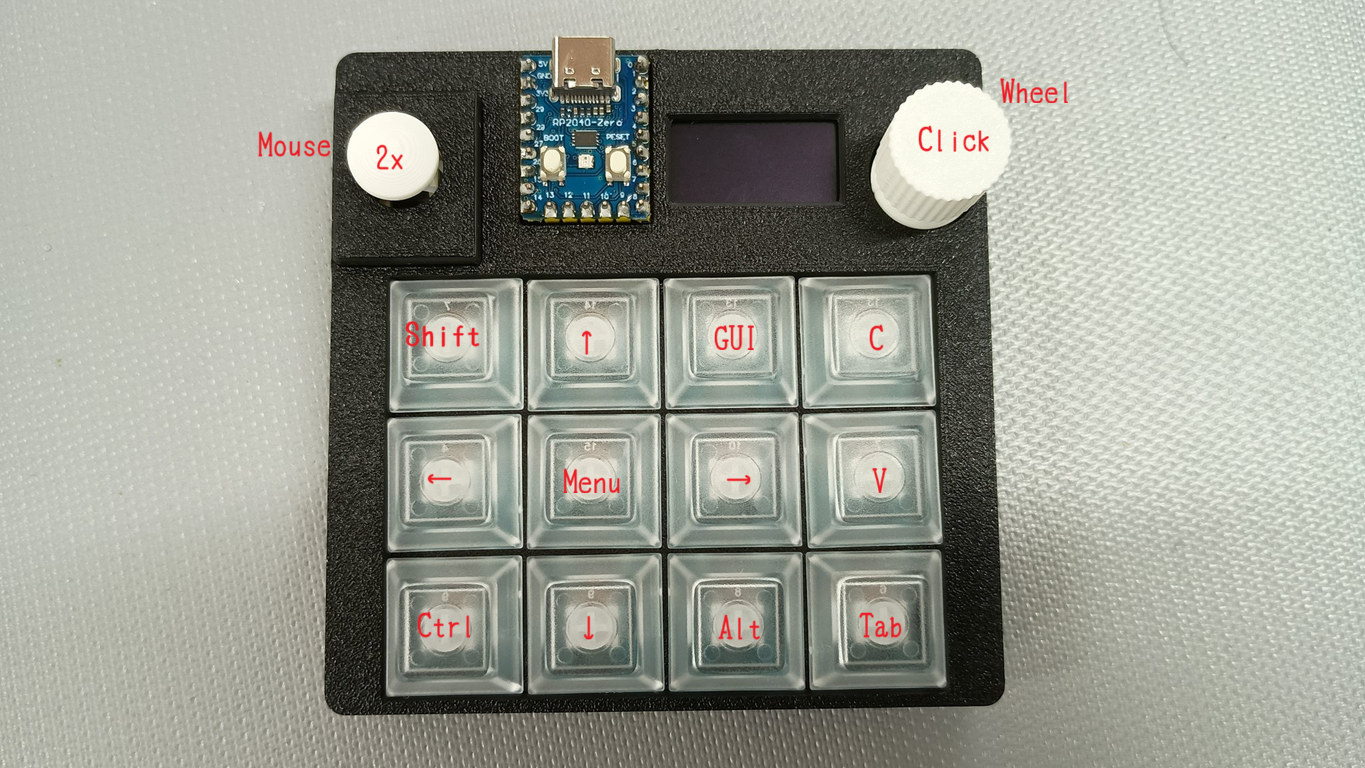
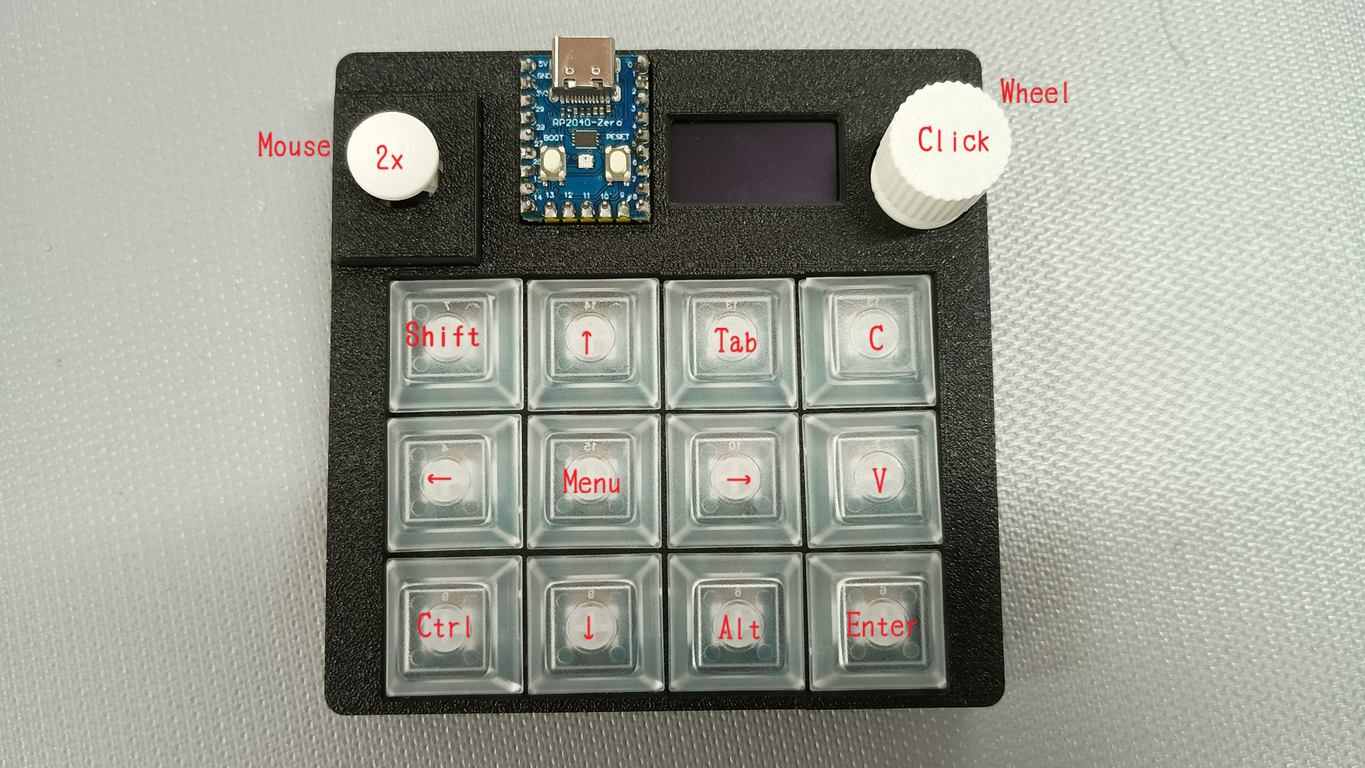
fix

Changed region(s): [[0.4615, 0.3438, 0.5846, 0.5312], [0.6154, 0.7188, 0.7385, 0.8438]]

diff --git a/main.go b/main.go
@@ -74,8 +74,8 @@ func main() {
 	keyc := [12]keyboard.Keycode{
 		keyboard.KeyLeftShift, keyboard.KeyLeft, keyboard.KeyLeftCtrl,
 		keyboard.KeyUp, keyboard.KeyMenu, keyboard.KeyDown,
-		keyboard.KeyLeftGUI, keyboard.KeyRight, keyboard.KeyLeftAlt,
-		keyboard.KeyC, keyboard.KeyV, keyboard.KeyTab,
+		keyboard.KeyTab, keyboard.KeyRight, keyboard.KeyLeftAlt,
+		keyboard.KeyC, keyboard.KeyV, keyboard.KeyEnter,
 	}
 
 	ws := NewWS2812B(machine.GPIO1)
